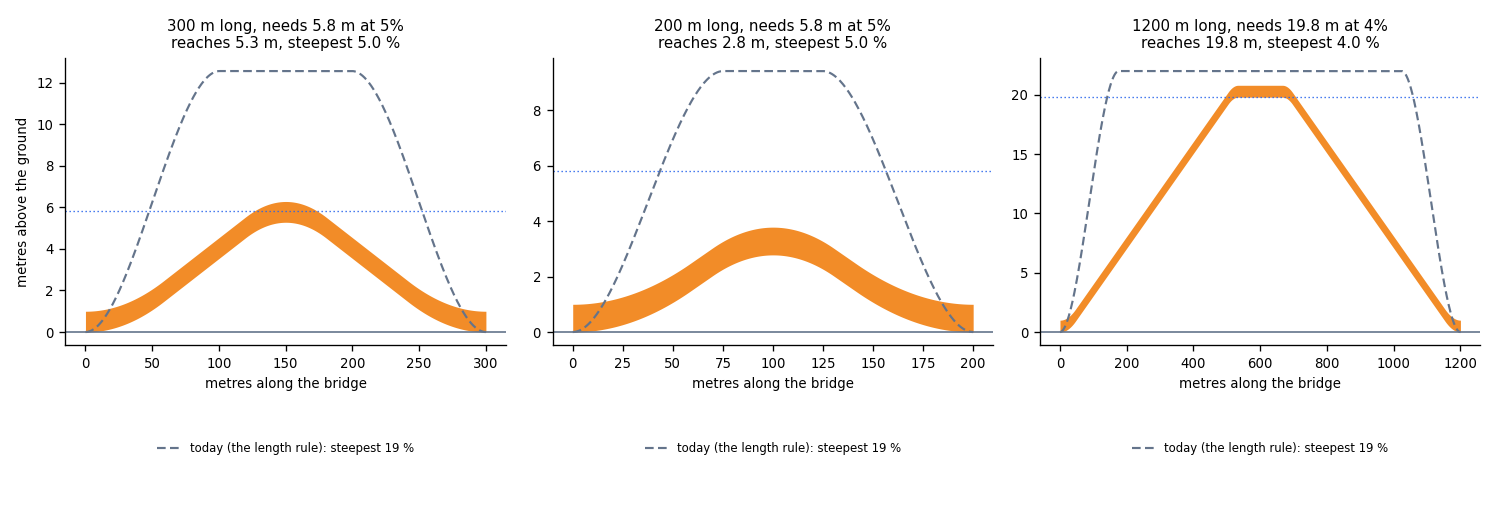
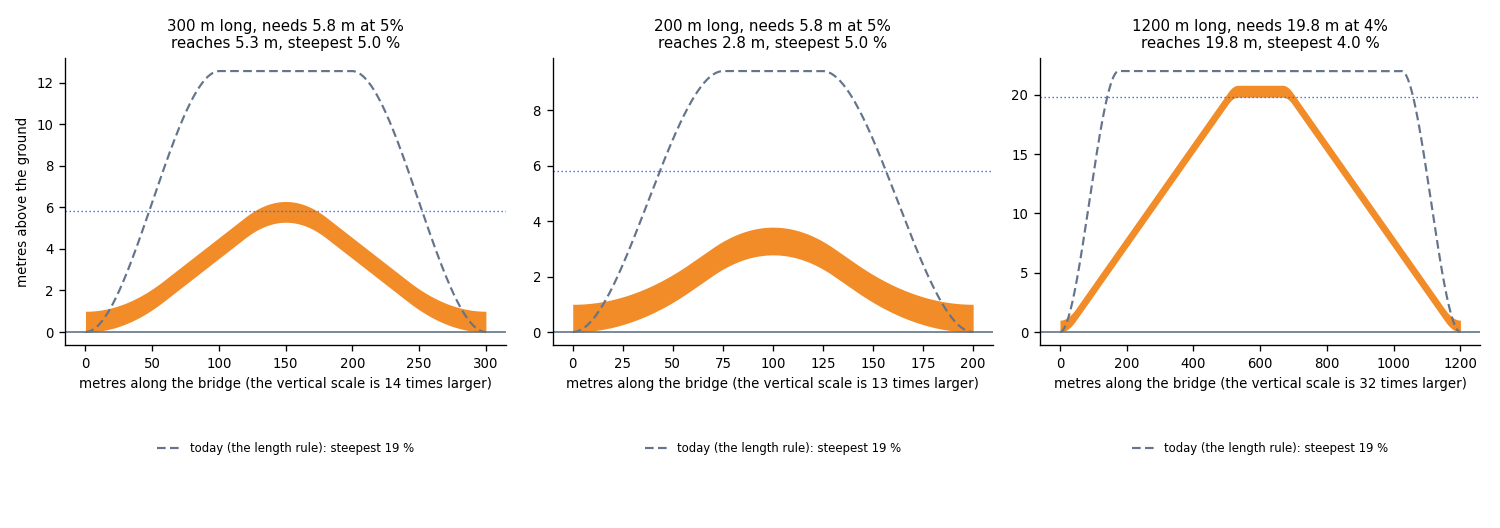
Figures: show the true slope and the vertical exaggeration; the design rules as a list
The profile figure of the guide has a second row with the slope in percent, and each
picture says how much larger its vertical scale is (36 times for a bridge of 800 m), so a
ramp does not look steeper than it is. The design-rules figure says the same. In the design note
the rules are a list and not a table with five narrow columns.

Changed region(s): [[0.0613, 0.697, 0.3373, 0.7576], [0.7053, 0.697, 0.9813, 0.7576], [0.368, 0.697, 0.644, 0.7576]]

diff --git a/docs/img/bridge-height/make.py b/docs/img/bridge-height/make.py
@@ -12,6 +12,7 @@ from pathlib import Path
 
 import geopandas as gpd
 import matplotlib
+import numpy as np
 
 matplotlib.use("Agg")
 import matplotlib.pyplot as plt
@@ -38,8 +39,10 @@ def deck_pieces(length_m):
 
 
 def main():
-    fig, axes = plt.subplots(1, len(LENGTHS), figsize=(12.5, 3.6), sharey=True)
-    for ax, length in zip(axes, LENGTHS, strict=True):
+    fig, axes = plt.subplots(2, len(LENGTHS), figsize=(12.5, 6.2), gridspec_kw={"height_ratios": [3, 1.6]})
+    steepest = []
+    for col, length in enumerate(LENGTHS):
+        ax, ax2 = axes[0][col], axes[1][col]
         pieces = deck_pieces(length)
         full, thick = pieces[0]["__rs_full"], pieces[0]["__rs_thick"]
         xs, under, top = [], [], []
@@ -55,14 +58,31 @@ def main():
         peak = max(under)
         ax.set_title(f"{length} m long\ngroup height {full:.1f} m" + ("" if peak > full - 0.05 else f"\nthe deck reaches {peak:.1f} m"), fontsize=10)
         ax.set_xlim(0, length)
-        ax.set_xlabel("metres along the bridge", fontsize=9)
+        ax.set_ylim(-1, 25)
         ax.spines[["top", "right"]].set_visible(False)
         ax.tick_params(labelsize=8)
-    axes[0].set_ylabel("metres above the ground", fontsize=9)
-    axes[0].set_ylim(-1, 25)
+        # the true slope in percent, from the underside of the deck
+        grid = np.arange(0, length + 0.25, 0.5)
+        z = np.interp(grid, xs, under)
+        slope = np.abs(np.gradient(z, grid)) * 100
+        steepest.append(float(slope.max()))
+        ax2.fill_between(grid, slope, color="#64748b", alpha=0.35, linewidth=0)
+        ax2.plot(grid, slope, color="#475569", linewidth=1.0)
+        ax2.set_xlim(0, length)
+        ax2.set_ylim(0, 25)
+        ax2.spines[["top", "right"]].set_visible(False)
+        ax2.tick_params(labelsize=8)
+        ax2.set_xlabel("metres along the bridge", fontsize=9)
+        ax2.text(0.97, 0.9, f"steepest {slope.max():.1f} %", transform=ax2.transAxes, ha="right", va="top", fontsize=8)
+    axes[0][0].set_ylabel("metres above the ground", fontsize=9)
+    axes[1][0].set_ylabel("slope, in percent", fontsize=9)
     fig.tight_layout()
+    for col, length in enumerate(LENGTHS):               # how much larger the vertical scale is than the horizontal scale, in each picture
+        pos = axes[0][col].get_position()
+        exaggeration = (length / (pos.width * 12.5)) / (26 / (pos.height * 6.2))
+        axes[0][col].set_xlabel(f"the vertical scale is {exaggeration:.0f} times larger", fontsize=8, color="#9a4f00")
     fig.savefig(HERE / "profile.png", dpi=130)
-    print("wrote", HERE / "profile.png")
+    print("wrote", HERE / "profile.png", "| steepest slopes:", [round(v, 1) for v in steepest])
 
 
 if __name__ == "__main__":

diff --git a/docs/img/bridge-height/design_rules.py b/docs/img/bridge-height/design_rules.py
@@ -125,13 +125,16 @@ def main():
         ax.axhline(height, color="#2563eb", linewidth=0.8, linestyle=(0, (1, 2)))
         ax.axhline(0, color="#64748b", linewidth=1.0)
         ax.set_title(f"{ell:.0f} m long, needs {height:.1f} m at {g:.0%}\nreaches {apex:.1f} m, steepest {slope:.1f} %", fontsize=9)
-        ax.set_xlabel("metres along the bridge", fontsize=8)
         ax.tick_params(labelsize=8)
         ax.spines[["top", "right"]].set_visible(False)
         ax.legend(fontsize=7, loc="lower center", bbox_to_anchor=(0.5, -0.42), frameon=False)
         print(f"  {ell:.0f} m (needs {height:.1f} m, grade {g:.0%}): the deck reaches {apex:.2f} m, steepest {slope:.2f} %, curves {[round(c) for c in curves]}; today's engine: {today_slope:.1f} %")
     axes[0].set_ylabel("metres above the ground", fontsize=8)
     fig.tight_layout()
+    for ax, ell in zip(axes, (300.0, 200.0, 1200.0), strict=True):          # how much larger the vertical scale is than the horizontal scale
+        pos, (low, high) = ax.get_position(), ax.get_ylim()
+        exaggeration = (ell / (pos.width * 12.5)) / ((high - low) / (pos.height * 4.4))
+        ax.set_xlabel(f"metres along the bridge (the vertical scale is {exaggeration:.0f} times larger)", fontsize=8)
     fig.savefig(HERE / "design_rules.png", dpi=120)
 
 

diff --git a/docs/design/bridge_height_design.md b/docs/design/bridge_height_design.md
@@ -16,18 +16,64 @@ design rules give. It uses no measured data of one bridge.
 
 ## The design rules
 
-| # | Rule | Value | Status | Source |
-|---|---|---|---|---|
-| 1 | Clearance of a bridge over a road | 16 ft (4.9 m) for a freeway and an arterial, 14 ft (4.3 m) for other roads. Add 6 in (0.15 m) for a new surface. So 5.0 m | Found in a state manual | [FDOT bulletin RDB10-10](https://www.fdot.gov/docs/default-source/content-docs/roadway/bulletin/RDB10-10.pdf), [TxDOT: vertical clearance](https://www.txdot.gov/manuals/des/rdw/chapter-4--basic-design-criteria/4-8-vertical-alignment/4-8-6-vertical-clearance.html) |
-| 2 | Clearance over a railway | 23 ft (7.0 m) to 23 ft 6 in (7.2 m) above the top of the rail. The railway can ask for more | Found in three state manuals | [Illinois](https://my.ilga.gov/ftp/JCAR/AdminCode/092/092015000C01600R.html), [NCDOT](https://connect.ncdot.gov/projects/Roadway/Roadway%20Design%20Manual/08-12.%20%20Guide%20for%20Paving%20Shoulders%20Under%20Bridges.pdf.pdf), [TxDOT](https://www.txdot.gov/manuals/rrd/rho/exhibit_a_and_pse_design/exhibit_a_design-i1005859/guidelines_on_projects_with_overpasses-i1006139.html) |
-| 3 | Clearance over navigable water | Set by the authority of the waterway. There is no general value | Not researched | The user gives it |
-| 4 | Depth of the structure | A steel plate girder is about span ÷ 25 deep (slab and girder). A steel box girder is span ÷ 20 to ÷ 25 for a simple span and ÷ 25 to ÷ 35 for a continuous one. A concrete structure: not confirmed | Found in secondary sources | [Mead & Hunt](https://meadhunt.com/?p=63129), [a textbook excerpt](https://ingenieriasismica.utpl.edu.ec/sites/default/files/publicaciones/UCG-ES-00536.pdf), [lecture notes](https://www.scribd.com/document/392377472/Design-of-Box-Girder-Bridges) |
-| 5 | Maximum grade | It depends on the road class, the terrain and the design speed. The maximum value must be used rarely and is not a target. A bridge has no limit of its own. It follows the road | The rule is found. **The numbers of the tables are not**. They are settings | [TxDOT: grades](https://www.txdot.gov/manuals/des/rdw/chapter-4--basic-design-criteria/4-8-vertical-alignment/4-8-1-grades.html), [Kentucky summary of the AASHTO Green Book](https://kp.uky.edu/?p=23524) |
-| 6 | Least grade on a long bridge | At least 0.5 % so that water runs off | Found in one state manual | [Iowa DOT: vertical alignment](https://iowadot.gov/design-manual/chapter-2-alignments/2c-vertical-alignment) |
-| 7 | Low point on a bridge | A sag curve must not put its low point on a bridge | Found in one state manual | Iowa DOT, same page |
-| 8 | A vertical curve | `L = K × A`. `A` is the change of grade in percent. The preferred least length is about 3 × the design speed (in mph and feet), which is 0.6 × V (V in km/h, L in metres). It is not a design control if the sight distance is met | Found | [TxDOT: vertical curves](https://www.txdot.gov/manuals/des/rdw/chapter-4--basic-design-criteria/4-8-vertical-alignment/4-8-2-vertical-curves.html), [LibreTexts: vertical curves](https://eng.libretexts.org/Bookshelves/Civil_Engineering/Fundamentals_of_Transportation/07:_Geometric_Design/7.05:_Vertical_Curves) |
-| 9 | `K` from the stopping sight distance `S` | Crest: `K = S² ÷ 658`. Sag: `K = S² ÷ (120 + 3.5 S)`. `S = 0.278 V t + V² ÷ (254 × a ÷ 9.81)`, with `t` = 2.5 s and `a` = 3.4 m/s² (the AASHTO values) | **Derived, and checked**: the formulas give 247 ft per percent at 70 mph, and 473 (crest) and 260 (sag) at 85 mph. The search results have 247 at 70 mph (a worked example) and 473 and 260 at 85 mph (the TxDOT table). A test keeps this | TxDOT, LibreTexts |
-| 10 | The ends | A deck meets the approach road at its height. The roads that meet at a node have the same height there | Principle | |
+**1. Clearance of a bridge over a road**
+
+- Value: 16 ft (4.9 m) for a freeway and an arterial, 14 ft (4.3 m) for other roads. Add 6 in (0.15 m) for a new surface. So 5.0 m
+- Status: Found in a state manual
+- Source: [FDOT bulletin RDB10-10](https://www.fdot.gov/docs/default-source/content-docs/roadway/bulletin/RDB10-10.pdf), [TxDOT: vertical clearance](https://www.txdot.gov/manuals/des/rdw/chapter-4--basic-design-criteria/4-8-vertical-alignment/4-8-6-vertical-clearance.html)
+
+**2. Clearance over a railway**
+
+- Value: 23 ft (7.0 m) to 23 ft 6 in (7.2 m) above the top of the rail. The railway can ask for more
+- Status: Found in three state manuals
+- Source: [Illinois](https://my.ilga.gov/ftp/JCAR/AdminCode/092/092015000C01600R.html), [NCDOT](https://connect.ncdot.gov/projects/Roadway/Roadway%20Design%20Manual/08-12.%20%20Guide%20for%20Paving%20Shoulders%20Under%20Bridges.pdf.pdf), [TxDOT](https://www.txdot.gov/manuals/rrd/rho/exhibit_a_and_pse_design/exhibit_a_design-i1005859/guidelines_on_projects_with_overpasses-i1006139.html)
+
+**3. Clearance over navigable water**
+
+- Value: Set by the authority of the waterway. There is no general value
+- Status: Not researched
+- Source: The user gives it
+
+**4. Depth of the structure**
+
+- Value: A steel plate girder is about span ÷ 25 deep (slab and girder). A steel box girder is span ÷ 20 to ÷ 25 for a simple span and ÷ 25 to ÷ 35 for a continuous one. A concrete structure: not confirmed
+- Status: Found in secondary sources
+- Source: [Mead & Hunt](https://meadhunt.com/?p=63129), [a textbook excerpt](https://ingenieriasismica.utpl.edu.ec/sites/default/files/publicaciones/UCG-ES-00536.pdf), [lecture notes](https://www.scribd.com/document/392377472/Design-of-Box-Girder-Bridges)
+
+**5. Maximum grade**
+
+- Value: It depends on the road class, the terrain and the design speed. The maximum value must be used rarely and is not a target. A bridge has no limit of its own. It follows the road
+- Status: The rule is found. **The numbers of the tables are not**. They are settings
+- Source: [TxDOT: grades](https://www.txdot.gov/manuals/des/rdw/chapter-4--basic-design-criteria/4-8-vertical-alignment/4-8-1-grades.html), [Kentucky summary of the AASHTO Green Book](https://kp.uky.edu/?p=23524)
+
+**6. Least grade on a long bridge**
+
+- Value: At least 0.5 % so that water runs off
+- Status: Found in one state manual
+- Source: [Iowa DOT: vertical alignment](https://iowadot.gov/design-manual/chapter-2-alignments/2c-vertical-alignment)
+
+**7. Low point on a bridge**
+
+- Value: A sag curve must not put its low point on a bridge
+- Status: Found in one state manual
+- Source: Iowa DOT, same page
+
+**8. A vertical curve**
+
+- Value: `L = K × A`. `A` is the change of grade in percent. The preferred least length is about 3 × the design speed (in mph and feet), which is 0.6 × V (V in km/h, L in metres). It is not a design control if the sight distance is met
+- Status: Found
+- Source: [TxDOT: vertical curves](https://www.txdot.gov/manuals/des/rdw/chapter-4--basic-design-criteria/4-8-vertical-alignment/4-8-2-vertical-curves.html), [LibreTexts: vertical curves](https://eng.libretexts.org/Bookshelves/Civil_Engineering/Fundamentals_of_Transportation/07:_Geometric_Design/7.05:_Vertical_Curves)
+
+**9. `K` from the stopping sight distance `S`**
+
+- Value: Crest: `K = S² ÷ 658`. Sag: `K = S² ÷ (120 + 3.5 S)`. `S = 0.278 V t + V² ÷ (254 × a ÷ 9.81)`, with `t` = 2.5 s and `a` = 3.4 m/s² (the AASHTO values)
+- Status: **Derived, and checked**: the formulas give 247 ft per percent at 70 mph, and 473 (crest) and 260 (sag) at 85 mph. The search results have 247 at 70 mph (a worked example) and 473 and 260 at 85 mph (the TxDOT table). A test keeps this
+- Source: TxDOT, LibreTexts
+
+**10. The ends**
+
+- Value: A deck meets the approach road at its height. The roads that meet at a node have the same height there
+- Status: Principle
 
 What I could not verify: the numbers of the maximum grade for each road class, the clearance over water, and the depth of a concrete structure. The numbers in the maximum-grade tables of the AASHTO Green Book and of the
 Canadian TAC guide (Vancouver uses the BC supplement) must be read from the books by the person who sets the defaults.

diff --git a/docs/guides/bridge-height.md b/docs/guides/bridge-height.md
@@ -195,8 +195,9 @@ It writes `__rs_base = H × lift(x_middle)` and `__rs_height = __rs_base + thick
 
 ![The profile of a straight bridge for four lengths](../img/bridge-height/profile.png)
 
-The figure shows the profile of one straight bridge for four lengths. The engine made it with the default look. The orange band is the deck. The dashed line is H.
-Make the figure again with `python docs/img/bridge-height/make.py`.
+The figure shows the profile of one straight bridge for four lengths. The engine made it with the default look. In the top row, the orange band is the deck and the dashed line is H.
+The vertical scale is larger than the horizontal scale, by the number under each picture (36 times for the bridge of 800 m), so a ramp looks steeper than it is. The bottom row shows the true slope in
+percent. On every ramp the steepest slope is 18.8 %, which is 1.5 times the average of 12.5 %. Make the figure again with `python docs/img/bridge-height/make.py`.
 
 ## Part 2. The page draws the profile
 
